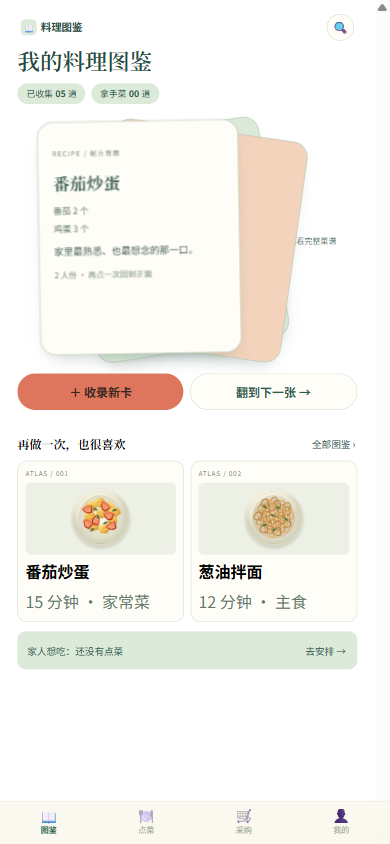
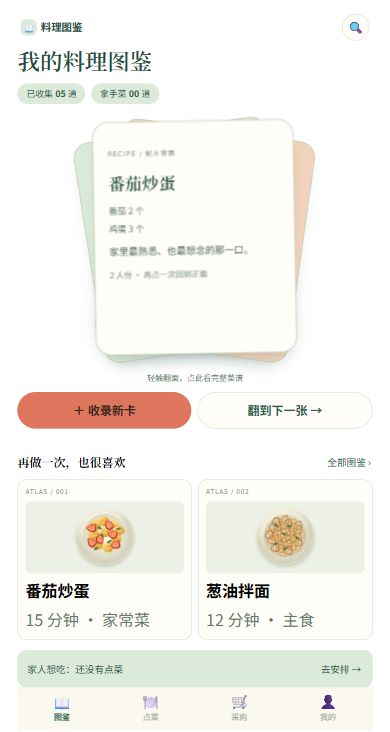
fix(miniprogram): 修正文本行内排版与截图视口裁切
- app.scss: .kicker/.h2/.h3/.subtitle/.mini/.helper 补 display:block
  （Taro Text 默认 inline，导致 kicker 与标题挤在同一行重叠）
- shots/: 重新按内容高度截全三页+翻卡，底栏不再被裁
- .gitignore: 忽略 apps/miniprogram/dist-h5（本地 H5 预览产物）

diff --git a/apps/miniprogram/src/app.scss b/apps/miniprogram/src/app.scss
@@ -17,16 +17,16 @@ button::after { border: 0; }
 .fatalRetry{background:#b42318;color:#fff;border-radius:12rpx;font-size:28rpx;padding:16rpx 32rpx}
 
 /* ===== 通用暖色卡牌基础 ===== */
-.kicker{font-size:20rpx;letter-spacing:4rpx;color:$muted}
-.h2{font-size:56rpx;line-height:1.4;@include serif-title;color:$ink}
-.h3{font-size:30rpx;@include serif-title;margin:26rpx 0 16rpx}
-.subtitle{font-size:24rpx;color:$muted;line-height:1.7;margin-top:8rpx}
+.kicker{display:block;font-size:20rpx;letter-spacing:4rpx;color:$muted}
+.h2{display:block;font-size:56rpx;line-height:1.4;@include serif-title;color:$ink}
+.h3{display:block;font-size:30rpx;@include serif-title;margin:26rpx 0 16rpx}
+.subtitle{display:block;font-size:24rpx;color:$muted;line-height:1.7;margin-top:8rpx}
 .pill{display:inline-flex;align-items:center;gap:6rpx;background:$sage;color:$green;border-radius:$radius-control;padding:8rpx 22rpx;font-size:22rpx}
 .pill.warm{background:$peach;color:#79533b}
 .panel{background:$surface;border:1rpx solid $line;border-radius:$radius-panel;padding:26rpx 26rpx}
 .panel-top{display:flex;justify-content:space-between;align-items:center;font-size:26rpx;margin-bottom:14rpx}
-.mini{font-size:22rpx;color:$muted;line-height:1.8}
-.helper{font-size:22rpx;color:$subtle;line-height:1.8;margin-top:14rpx}
+.mini{display:block;font-size:22rpx;color:$muted;line-height:1.8}
+.helper{display:block;font-size:22rpx;color:$subtle;line-height:1.8;margin-top:14rpx}
 .tip{font-size:22rpx;color:$muted;background:$soft;border-radius:20rpx;padding:18rpx 22rpx;line-height:1.8;margin-top:16rpx}
 .head-row{display:flex;justify-content:space-between;align-items:center;gap:16rpx}
 
